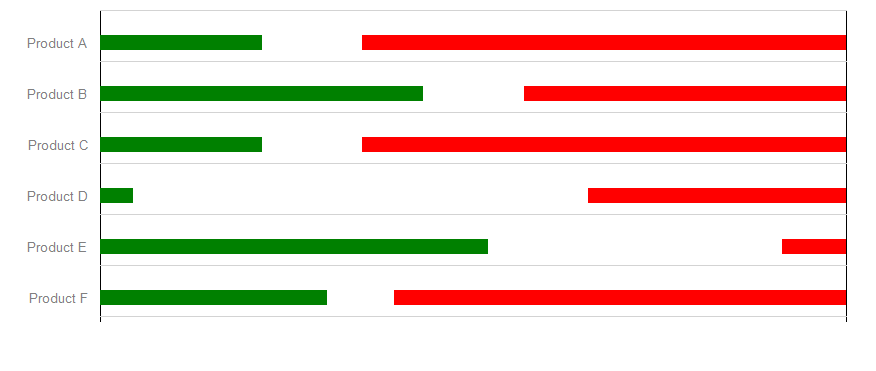
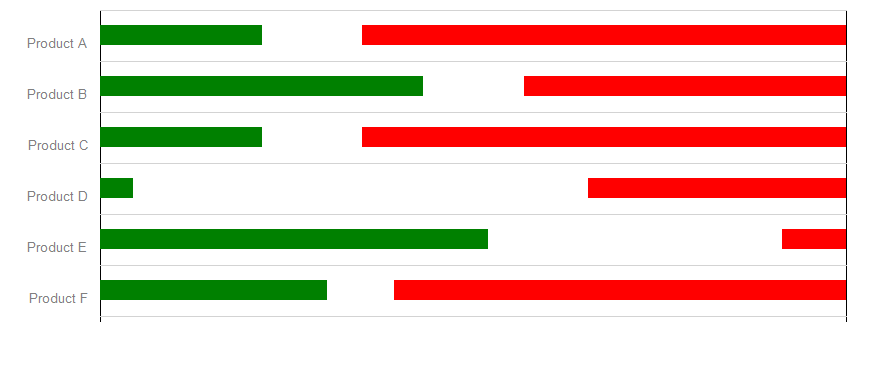
Update

diff --git a/SimpleImageCharts/HorzBarDoubleAxisChart/HorzBarDoubleAxisChart.cs b/SimpleImageCharts/HorzBarDoubleAxisChart/HorzBarDoubleAxisChart.cs
@@ -12,7 +12,7 @@ namespace SimpleImageCharts.HorzBarDoubleAxisChart
 
         private const int MarginBottom = 50;
 
-        private const int BarHeight = 15;
+        private const int BarSize = 20;
 
         public int StepSize { get; set; } = 5;
 
@@ -104,13 +104,13 @@ namespace SimpleImageCharts.HorzBarDoubleAxisChart
         private void DrawFirstBarSeries(Graphics graphics, HorzBarDoubleAxisSeries series)
         {
             var spaceY = _categoryHeight;
-            var y = MarginTop + (spaceY / 2);
+            var y = MarginTop + ((spaceY - BarSize) / 2);
             using (var brush = new SolidBrush(series.Color))
             {
                 foreach (var value in series.Data)
                 {
                     var length = _widthUnit * value;
-                    graphics.FillRectangle(brush, MarginLeft, y, length, BarHeight);
+                    graphics.FillRectangle(brush, MarginLeft, y, length, BarSize);
 
                     y += spaceY;
                 }
@@ -120,13 +120,13 @@ namespace SimpleImageCharts.HorzBarDoubleAxisChart
         private void DrawSecondBarSeries(Graphics graphics, HorzBarDoubleAxisSeries series)
         {
             var spaceY = _categoryHeight;
-            var y = MarginTop + (spaceY / 2);
+            var y = MarginTop + ((spaceY - BarSize) / 2);
             using (var brush = new SolidBrush(series.Color))
             {
                 foreach (var value in series.Data)
                 {
                     var length = _widthUnit * value;
-                    graphics.FillRectangle(brush, Width - MarginRight - length, y, length, BarHeight);
+                    graphics.FillRectangle(brush, Width - MarginRight - length, y, length, BarSize);
 
                     y += spaceY;
                 }

diff --git a/SimpleImageCharts/HorzBarChart/HorzBarChart.cs b/SimpleImageCharts/HorzBarChart/HorzBarChart.cs
@@ -14,7 +14,7 @@ namespace SimpleImageCharts.HorzBarChart
 
         private const int MarginBottom = 50;
 
-        private const int BarHeight = 15;
+        private const int BarSize = 20;
 
         public bool IsStacked { get; set; } = false;
 
@@ -64,13 +64,13 @@ namespace SimpleImageCharts.HorzBarChart
                 DrawHorizontalLines(graphic);
                 DrawVerticalLines(graphic);
                 DrawVerticalValueLabels(graphic);
-                var offsetY = IsStacked ? 0 : -(DataSets.Length * BarHeight) / 2;
+                var offsetY = IsStacked ? 0 : -(DataSets.Length * BarSize) / 2;
                 foreach (var data in DataSets)
                 {
                     DrawBarSeries(graphic, data, offsetY);
                     if (!IsStacked)
                     {
-                        offsetY += BarHeight;
+                        offsetY += BarSize;
                     }
                 }
 
@@ -175,11 +175,11 @@ namespace SimpleImageCharts.HorzBarChart
                     var length = _widthUnit * value;
                     if (length >= 0)
                     {
-                        graphics.FillRectangle(brush, _rootX, y, length, BarHeight);
+                        graphics.FillRectangle(brush, _rootX, y, length, BarSize);
                     }
                     else
                     {
-                        graphics.FillRectangle(brush, _rootX + length, y, Math.Abs(length), BarHeight);
+                        graphics.FillRectangle(brush, _rootX + length, y, Math.Abs(length), BarSize);
                     }
 
                     y += spaceY;

diff --git a/SimpleImageChartsDemo/Form1.cs b/SimpleImageChartsDemo/Form1.cs
@@ -175,7 +175,7 @@ namespace WindowsFormsChart
             };
 
             pictureBox1.Image = chart.CreateImage();
-            pictureBox1.Image.Save("D:\\HorzBarDoubleAxis.jpg"); ;
+            pictureBox1.Image.Save(@"D:\GitHub\SimpleImageCharts\screenshots\HorzBarDoubleAxis.jpg"); ;
         }
 
     }
